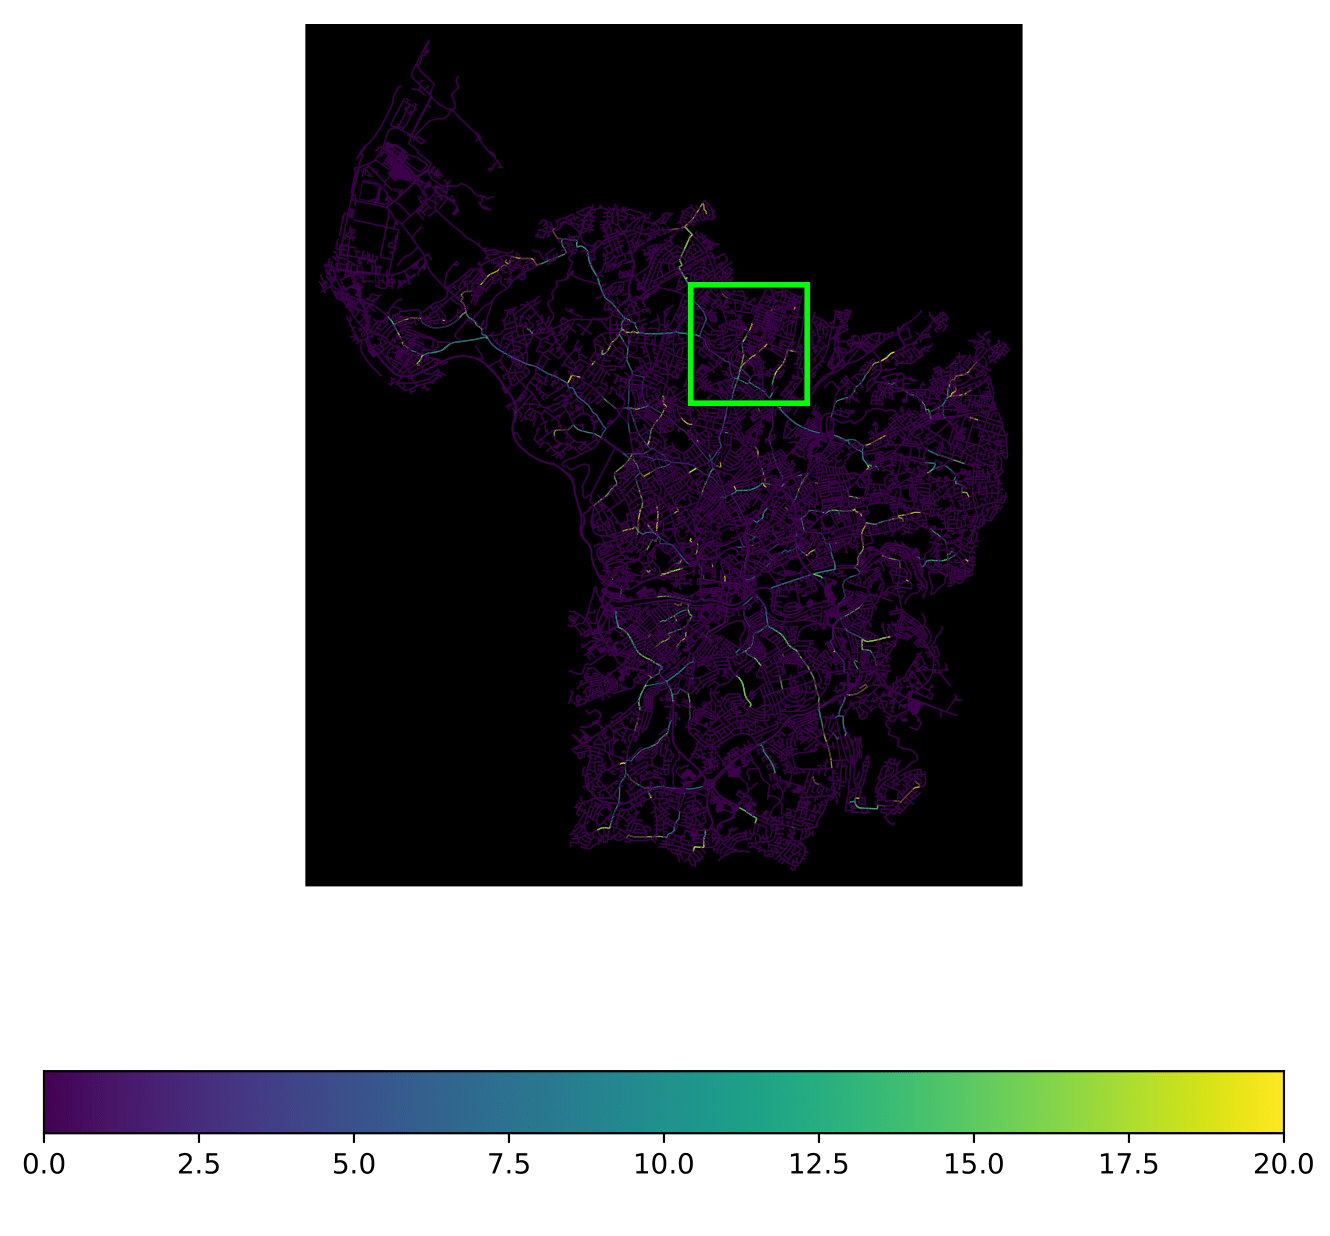
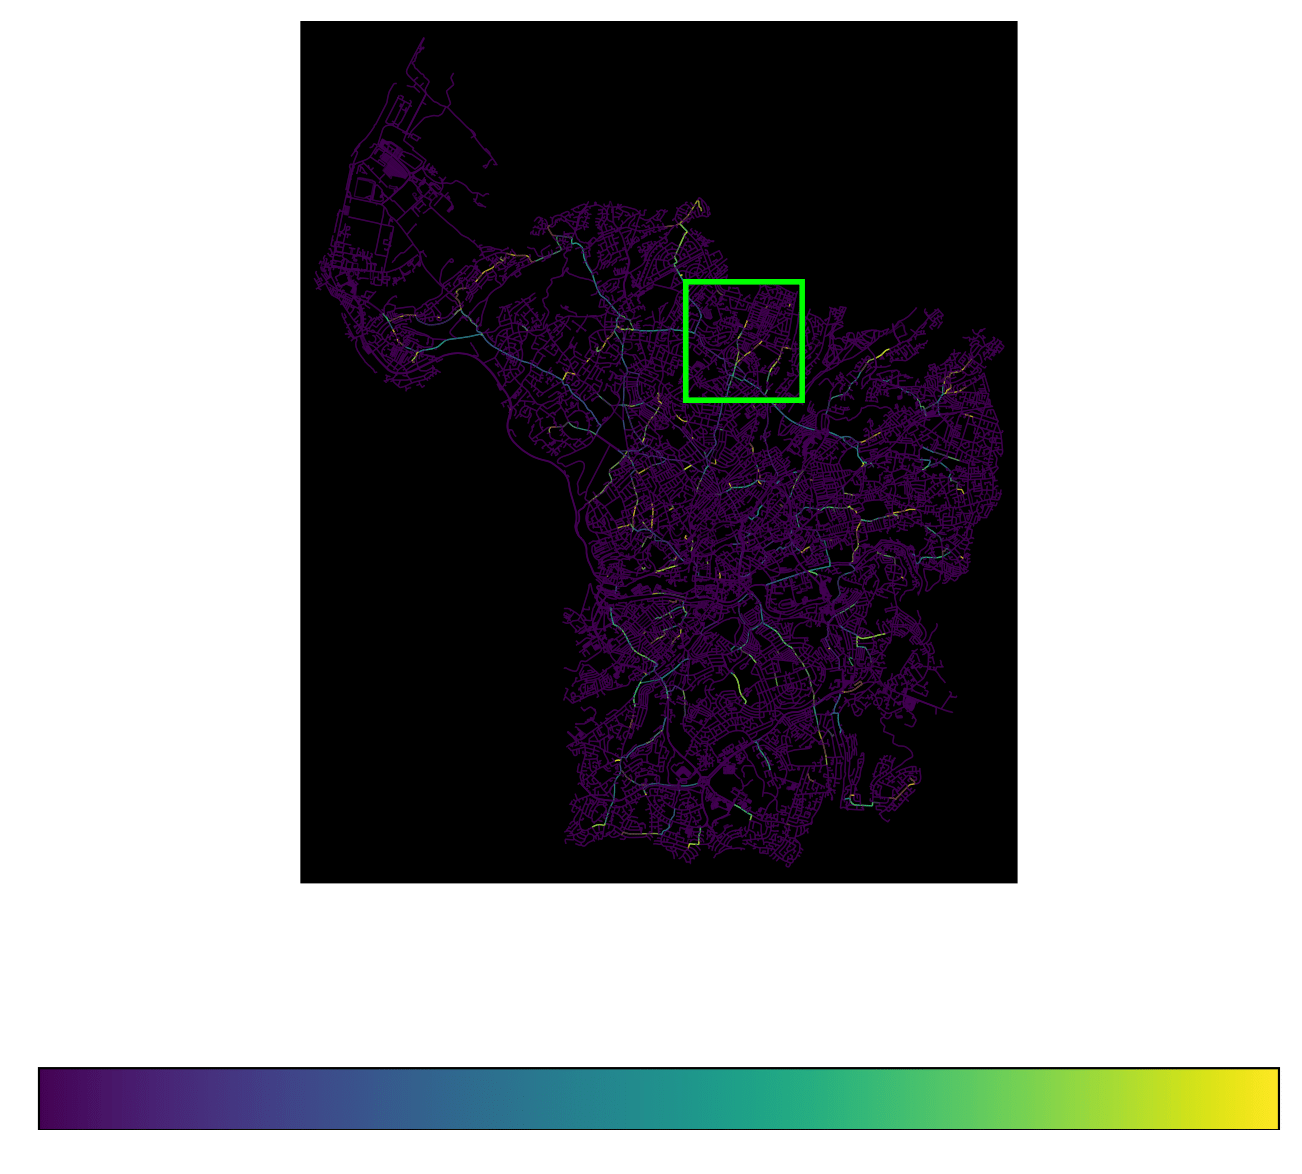
more work on plots for report

Changed region(s): [[0.2151, 0.0, 0.7988, 0.7666], [0.0, 0.8586, 1.0, 0.9813]]

diff --git a/upgrade.py b/upgrade.py
@@ -182,16 +182,16 @@ def first_batch_edges():
 
 def colour_by_batch():
 
-    G_upgrade,flowmat = upgrade_network(160000,100,20)
+    G_upgrade,flowmat = upgrade_network(160000,25,20)
     ec = ox.plot.get_edge_colors_by_attr(G_upgrade,'batch')
 
     nodes,edges = ox.graph_to_gdfs(G_upgrade, nodes=True, edges=True)
     cmap = plt.cm.get_cmap('viridis')
     norm=plt.Normalize(vmin=edges['batch'].min(), vmax=edges['batch'].max())
     sm = plt.cm.ScalarMappable(norm=norm, cmap=cmap)
-    sm.set_array([])
+    #sm.set_array([])
 
     fig, ax = ox.plot_graph(G_upgrade, node_size=0, edge_color=ec, edge_linewidth=0.5, edge_alpha=0.7,save=False, show=False, filepath = 'lpic_figs/coloured_by_batch.pdf',bgcolor='black')
-    #cb = fig.colorbar(cm.ScalarMappable(norm=norm, cmap=cmap), ax=ax, orientation='horizontal')
+    cb = fig.colorbar(sm, ax=ax, orientation='horizontal')
     plt.show()
-    fig.savefig('lpic_figs/coloured_by_batch.pdf')
+    #fig.savefig('lpic_figs/coloured_by_batch.pdf')

diff --git a/pctvsbatchsize.py b/pctvsbatchsize.py
@@ -24,7 +24,7 @@ for b in B:
 
 fig, ax = plt.subplots()
 
-
+data = [x - 320000 for x in data]
 
 ax.scatter(B,data)
 
@@ -34,5 +34,6 @@ labels = np.arange(21)
 # for label in B:
 #     labels.append(str(label))
 ax.set_xticklabels(labels)
+ax.set_ylim(bottom=0)
 
 plt.savefig('lpic_figs/scatter_totallen_nbatches.pdf')
